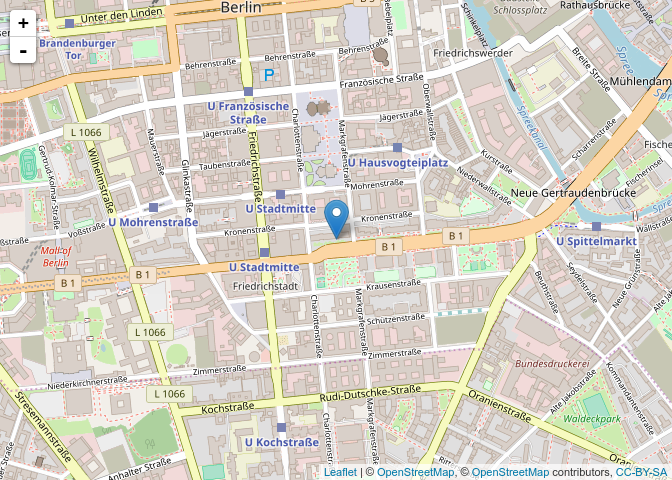
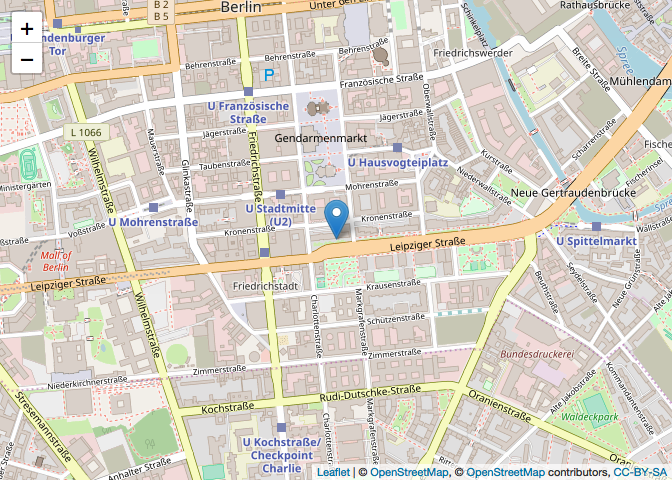
after installing phantomjs, the readme works again

diff --git a/README.md b/README.md
@@ -64,7 +64,7 @@ Number of senseBoxes
 
 <td style="text-align:right;">
 
-2246
+2254
 
 </td>
 
@@ -80,7 +80,7 @@ Number of Measurements
 
 <td style="text-align:right;">
 
-1301900739
+1308586099
 
 </td>
 
@@ -96,7 +96,7 @@ Number of measurements in last minute
 
 <td style="text-align:right;">
 
-2691
+2669
 
 </td>
 
@@ -707,18 +707,9 @@ leaflet(location) %>%
   addProviderTiles(providers$OpenStreetMap) %>% 
   addTiles() %>%  
   addMarkers(~long, ~lat, popup = ~htmltools::htmlEscape(name))
-## PhantomJS not found. You can install it with webshot::install_phantomjs(). If it is installed, please make sure the phantomjs executable can be found via the PATH variable.
 ```
 
-<!--html_preserve-->
-
-<div id="htmlwidget-cc14374d3e22835e0604" class="leaflet html-widget" style="width:672px;height:480px;">
-
-</div>
-
-<script type="application/json" data-for="htmlwidget-cc14374d3e22835e0604">{"x":{"options":{"crs":{"crsClass":"L.CRS.EPSG3857","code":null,"proj4def":null,"projectedBounds":null,"options":{}}},"calls":[{"method":"addProviderTiles","args":["OpenStreetMap",null,null,{"errorTileUrl":"","noWrap":false,"detectRetina":false}]},{"method":"addTiles","args":["//{s}.tile.openstreetmap.org/{z}/{x}/{y}.png",null,null,{"minZoom":0,"maxZoom":18,"tileSize":256,"subdomains":"abc","errorTileUrl":"","tms":false,"noWrap":false,"zoomOffset":0,"zoomReverse":false,"opacity":1,"zIndex":1,"detectRetina":false,"attribution":"&copy; <a href=\"http://openstreetmap.org\">OpenStreetMap<\/a> contributors, <a href=\"http://creativecommons.org/licenses/by-sa/2.0/\">CC-BY-SA<\/a>"}]},{"method":"addMarkers","args":[52.510952,13.392953,null,null,null,{"interactive":true,"draggable":false,"keyboard":true,"title":"","alt":"","zIndexOffset":0,"opacity":1,"riseOnHover":false,"riseOffset":250},"Leipziger65-Süd",null,null,null,null,{"interactive":false,"permanent":false,"direction":"auto","opacity":1,"offset":[0,0],"textsize":"10px","textOnly":false,"className":"","sticky":true},null]}],"limits":{"lat":[52.510952,52.510952],"lng":[13.392953,13.392953]}},"evals":[],"jsHooks":[]}</script>
-
-<!--/html_preserve-->
+<img src="README_figs/README-plot_location-1.png" width="672" />
 
 #### Sensor Id informations
 
